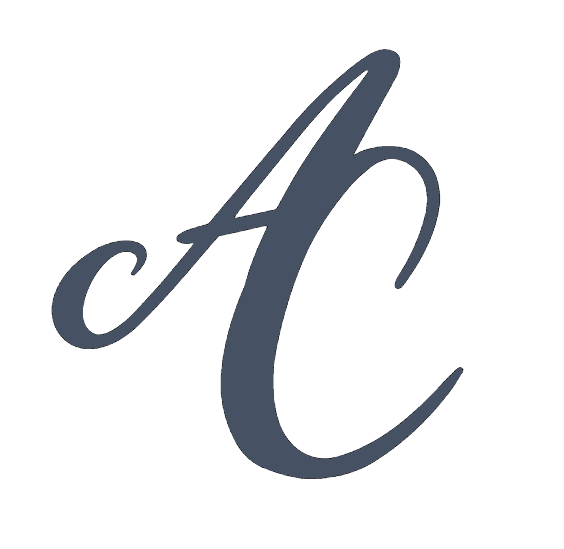
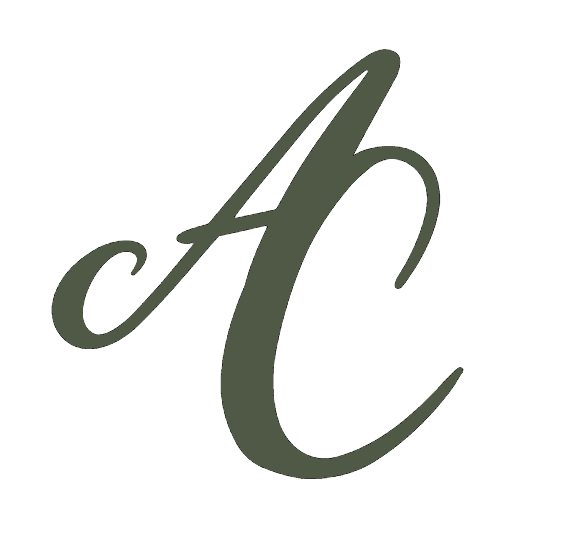
Re-styled based on new background image
Updated background image from landscape picture to one of laptop. Redid positioning and colors based on background picture. Added "backdrop" divs with semi-opaque backgrounds behind elements for better visibility. Repositioned "about me" page to better fit background image. Updated monogram logo to match new color palette.

Changed region(s): [[0.0904, 0.0929, 0.8138, 0.898]]

diff --git a/src/styles.css b/src/styles.css
@@ -2,16 +2,13 @@ img {
 max-height: 1200px;
 max-width: 100%;}
 
-body {background: url('../media/landscape.jpg');
+body {background: url('../media/dicky-satria-F1K6ssl-7Kc-unsplash.jpg');
     background-repeat: no-repeat;
     background-attachment: fixed;
-    background-color: #F1F1F1;
-    max-height: 100%;
-   max-width: 100%;
-    min-width: 950px;
-  background-position-y: 90%;
-  background-position-x: 90%;
-color: #232a63;
+    background-color: #f1f2f4;
+  background-position-x: right;
+color: #394222;
+margin: 0;
 font-family: 'Roboto', sans-serif;}
 
 html{
@@ -27,24 +24,25 @@ h4 p {padding-top: 100px;
 
 
 footer {position: fixed;
-  padding-right: 500px;
   bottom: 0;
+  padding-right: 500px;
   width: 50%;
   font-size: 18px;
 text-align: center;
 white-space: nowrap;
 }
 
-a, a:visited {color: #6a7790;
+a, a:visited {color:#1a6622;
   transition: all 100ms ease-in-out;
 }
 
 a:hover {
-color: #17103c; 
+color: #000000; 
 cursor: default;
   text-decoration: none;
 }
 
+label {color: #434e43;}
 
 .left {float: left;}
 
@@ -52,44 +50,92 @@ cursor: default;
 height: 0px;}
 
 
+.backdrop {background-color: #f1f1f1;
+opacity: 70%;
+max-width: 520px;
+min-height: 60px;
+padding: 0;
+z-index: -1;
+position: relative;
+top: 150px;
+right: 7px;}
 
+.backdrop2 {background-color: #e7ac94;
+  opacity: 70%;
+  max-width: 550px;
+  min-height: 60px;
+  z-index: -1;
+  position: relative;
+  bottom: 10px;
+right: 75px;}
+
+.backdrop3 {background-color:#f1f1f1;
+  opacity: 70%;
+  min-width: 740px;
+  max-width: 800px;
+  min-height: 210px;
+  z-index: -1;
+  position: relative;
+right: 160px;
+bottom: 40px;
+}
+.backdrop4 {background-color:#f1f1f1;
+  opacity: 70%;
+  min-width: 880px;
+  max-width: 900px;
+  min-height: 450px;
+  position: absolute;
+  z-index: -1;
+  left: 170px;
+  bottom: 180px;
+
+ }
 
 .basedIn {font-size: 32px;
   font-family: 'Roboto', sans-serif;
-color: #3a4658;
+color: #4D523C;
+position: relative;
+right: 70px;
+bottom: 60px;
 white-space: nowrap;}
 
 .name {font-size: 48px;
-color:#1e1949;
+color:#9c5341;
 font-family: 'Crimson Text', serif;
-padding-left: 90px;
 letter-spacing: 13px;
 text-shadow: 3px 3px 5px #a3a5bd,
 0px 0px 15px #e0c3ee;
 white-space: nowrap;
 }
 
+.text-muted {color: #1e8105!important;
+text-emphasis: bold!important;}
+
 .contactHeader h1 {font-family: 'Crimson Text', serif;
-padding: 80px 0 0 150px;
-margin: 0;}
+padding: 150px 0 0 180px;
+display: inline-block;
+color: #9C534E;
+z-index: 1;}
 
 .container {margin-left: 0;}
 
 .aboutMe p {
-  max-width: 800px;
+  max-width: 700px;
   height: 100%;
-  padding: 180px 0 0 150px;
+position: relative;
+right: 150px;
+top: 170px; 
 text-align: left;
 font-family: 'Roboto', sans-serif;
 font-size: 22px;}
 
 .aboutMePhoto img {
-  margin: 150px 0 0 90px;
+  margin: 160px 0 0 180px;
 border-radius: 50%;
 max-width: 325px;
 max-height: 325px;
 filter: grayscale(25%);
-border: 2px solid #B1B0C0;
+border: 2px solid #4F5748;
 }
 
 .navbarLinks {margin-left: 15px;
@@ -102,7 +148,7 @@ font-size: 22px;}
 
 .monogramLogo {margin-left: 70px;
   border-radius: 5px;
-box-shadow: 0px 0px 7px #E9E9E9;}
+box-shadow: 0px 0px 7px #c5afa5;}
 
 .weatherAppVanilla, .fortuneTeller {padding: 150px 0 0 250px;
   margin-bottom: 0;
@@ -123,44 +169,46 @@ box-shadow: 0px 0px 7px #E9E9E9;}
 
 }
 
+
 .icons {padding-left: 0;
 margin: 0;}
+
 .inputs {
   max-width: 100%;
 margin-top: 10px;
-padding-left: 150px;}
+padding-left: 190px;}
 
 .submitButton {
   background-color: #f1f1f1;
 margin: 10px 0 0 620px;
 border-radius: 8px;
 padding: 6px 12px;
-color: #434E60;
-border: 1px solid #b4b1c7;
-box-shadow: 1px 1px 3px 2px #8e97ca;
+color: #1a6622;
+border: 2px solid #629e54;
+box-shadow: 1px 1px 3px 2px #9aca8e;
 font-weight: 800;
 transition: all 100ms ease-in-out;}
 
-.submitButton:hover {background-color:#dad7f0;
-color: #17103c;
-box-shadow: 1px 1px 3px 2px #17103c;}
+.submitButton:hover {background-color:#f5e3c7;
+color: #143806;
+box-shadow: 1px 1px 3px 2px #0f4b00;}
 
 .active:hover {text-decoration: none;
   cursor: default;
   color: #8c9ebe;}
 
-  .active {color: #8c9ebe;
+  .active {color: #9C534E;
       cursor: default;
   text-decoration: none;}
 
-  .active:visited {color: #8c9ebe;
+  .active:visited {color: #9C534E;
       cursor: default;
   text-decoration: none;}
 
   .list-group-item:hover {cursor: pointer;
-    color: #17103c; }
+    color: #000000; }
 
-    .list-group-item:active, .list-group-item {color: #6a7790;
+    .list-group-item:active, .list-group-item {color: #1a6622;
     text-align: center;
     padding: 12px 25px;}
 

diff --git a/portfolio.html b/portfolio.html
@@ -37,7 +37,7 @@
 <div class="d-flex flex-row">
 <div class="col-6">
     <div class="weatherAppVanilla">
-  <div class="card" style="width: 22rem; border: 1px solid #B1B0C0; background-color: #E3E2E7;">
+  <div class="card" style="width: 22rem; border: 2px solid #5dad56; background-color: #f1f1f1;">
     <div class="card-body">
         <a href="https://nifty-almeida-22d8a8.netlify.app/" class="card-link" 
         target="_blank" ><img src="media/weatherapp.jpg" class="weatherAppPic"></a>
@@ -51,7 +51,7 @@
 </div>
 <div class="col-6">
   <div class="fortuneTeller">
-    <div class="card" style="width: 22rem; border: 1px solid #B1B0C0; background-color: #E3E2E7;">
+    <div class="card" style="width: 22rem; border: 2px solid #5dad56; background-color: #f1f1f1;">
       <div class="card-body">
           <a href="https://codepen.io/acapasso/pen/KKMooJV" class="card-link" 
           target="_blank" ><img src="media/fortuneteller.jpg" class="weatherAppPic"></a>

diff --git a/about.html b/about.html
@@ -36,6 +36,11 @@
 
   <div class="aboutPage">
     <div class="left">
+      <div class="aboutMePhoto">
+        <img src="media/aboutMe.jpg" alt="Amanda-and-Wyatt">
+    </div>
+  </div>
+  <div class="right">
            <span class="aboutMe">
             <h3>
             <p>
@@ -46,10 +51,8 @@
           <br /> When away from her computer, Amanda can be found 
           in her garden, baking up a storm in the kitchen, or exploring the outdoors with her
           dog Wyatt.</p> </h3></span>
+          <div class="backdrop3"></div>
         </div>
-          <div class="aboutMePhoto">
-              <img src="media/aboutMe.jpg" alt="Amanda-and-Wyatt">
-          </div>
         </div>
 
         <footer>

diff --git a/index.html b/index.html
@@ -35,9 +35,11 @@
 
         <br />
         <h4>
+          <div class="backdrop"></div>
           <p>
          <span class="name">
         Amanda Capasso </span>
+        <div class="backdrop2"></div>
         <div class="basedIn">Front-end Web Developer based in CT
         </div>
      </p>

diff --git a/contact.html b/contact.html
@@ -36,6 +36,7 @@
 
   <br />
   <div class="left">
+    <div class="backdrop4"></div>
   <div class="contactPage">
   <div class="contactHeader" id="contactHeader">
   <h1>Contact Me</h1>
